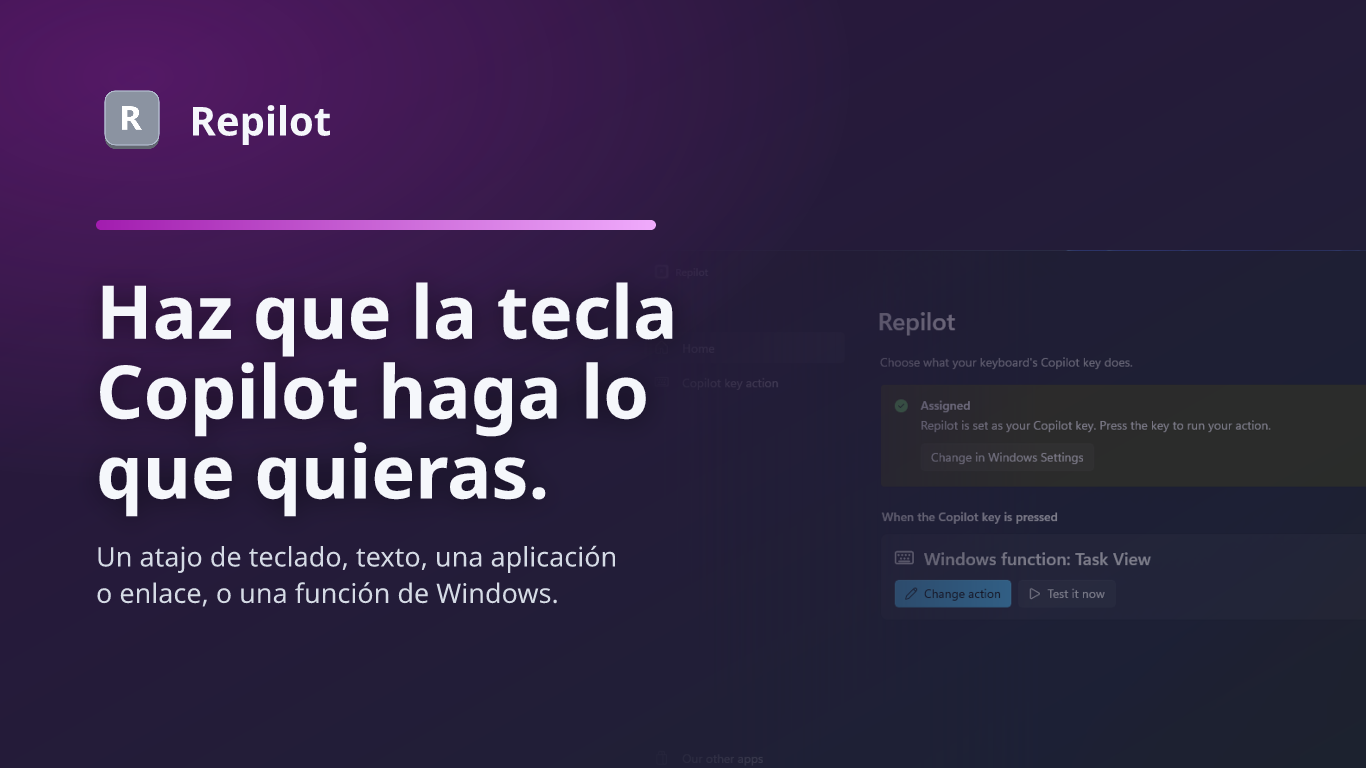
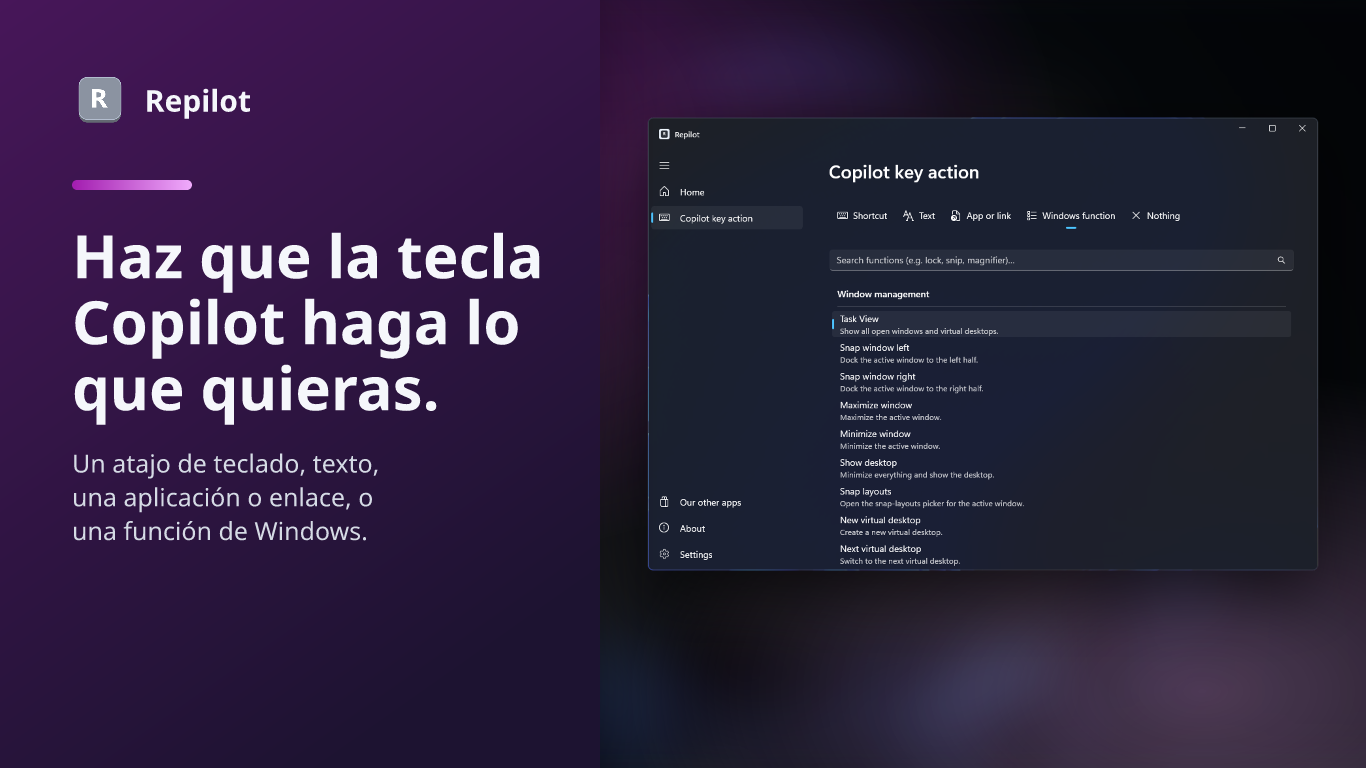
Store hero: split layout with the app's real UI (D-123)

diff --git a/store-assets/README.md b/store-assets/README.md
@@ -20,4 +20,4 @@ A UI change that shows in a screenshot means recapturing that shot; the release 
 
 ## The first screenshot: a generated hero
 
-Store search shows only the first screenshot, at about 320 x 180, so it is a generated hero (D-123): a brand card on a purple gradient with the icon, name, headline and subline, over a faint view of the Home page from `raw/microsoft/00-home-dark.png`; the settings window is setup that users rarely see again, so the card leads with the promise instead. Each listing locale has its own, drawn from its `heroHeadline` and `heroSubline` in `listings.json`; en-CA and fr-CA use en-US's and fr-FR's. Its caption is the subline. `npm run hero` draws them (devkit, through winui-app-kit's `scripts/devkit`), and `npm run check:hero` in `validate` fails when one no longer matches its inputs. New or changed headlines are approved by the maintainer, like any screenshot.
+Store search shows only the first screenshot, at about 320 x 180, so it is a generated hero (D-123): the split layout, a purple brand panel with the icon, name, headline and subline on the left, beside the real UI enlarged from `raw/microsoft/04-windows-function-dark.png` on the right: the Copilot key action page with Windows function chosen, where people pick what the key does. Each listing locale has its own, drawn from its `heroHeadline` and `heroSubline` in `listings.json`; en-CA and fr-CA use en-US's and fr-FR's. Its caption is the subline. `npm run hero` draws them (devkit, through winui-app-kit's `scripts/devkit`), and `npm run check:hero` in `validate` fails when one no longer matches its inputs. New or changed headlines are approved by the maintainer, like any screenshot.
